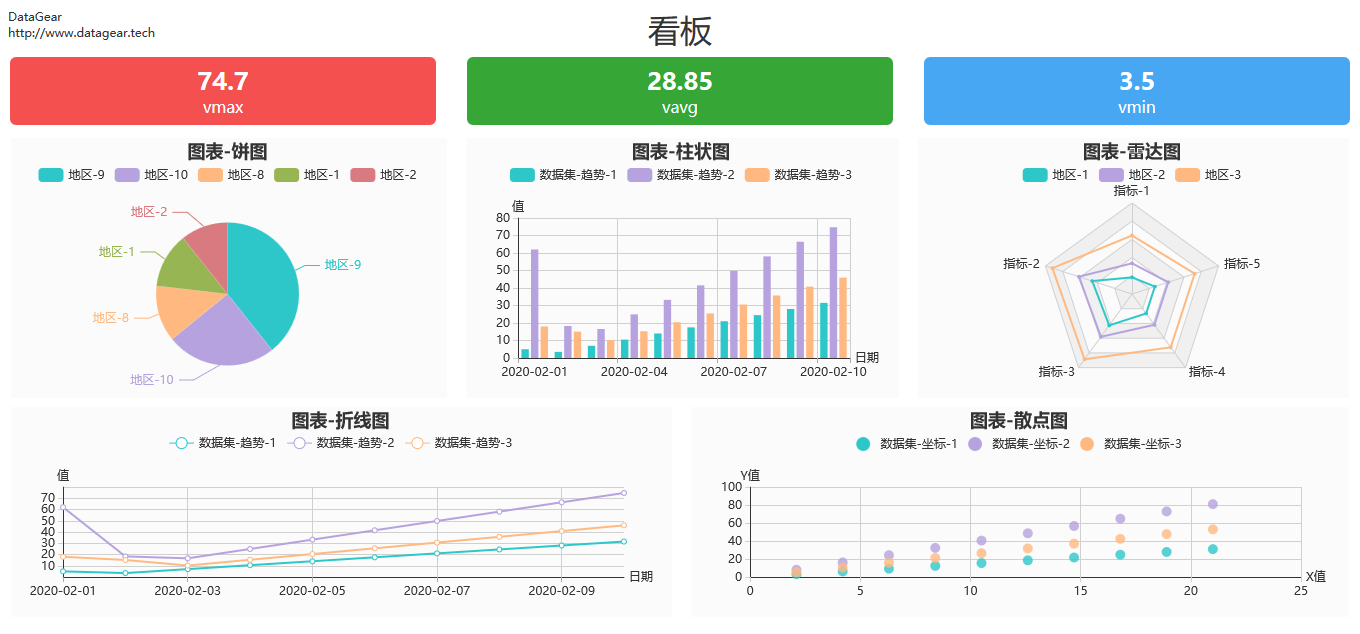
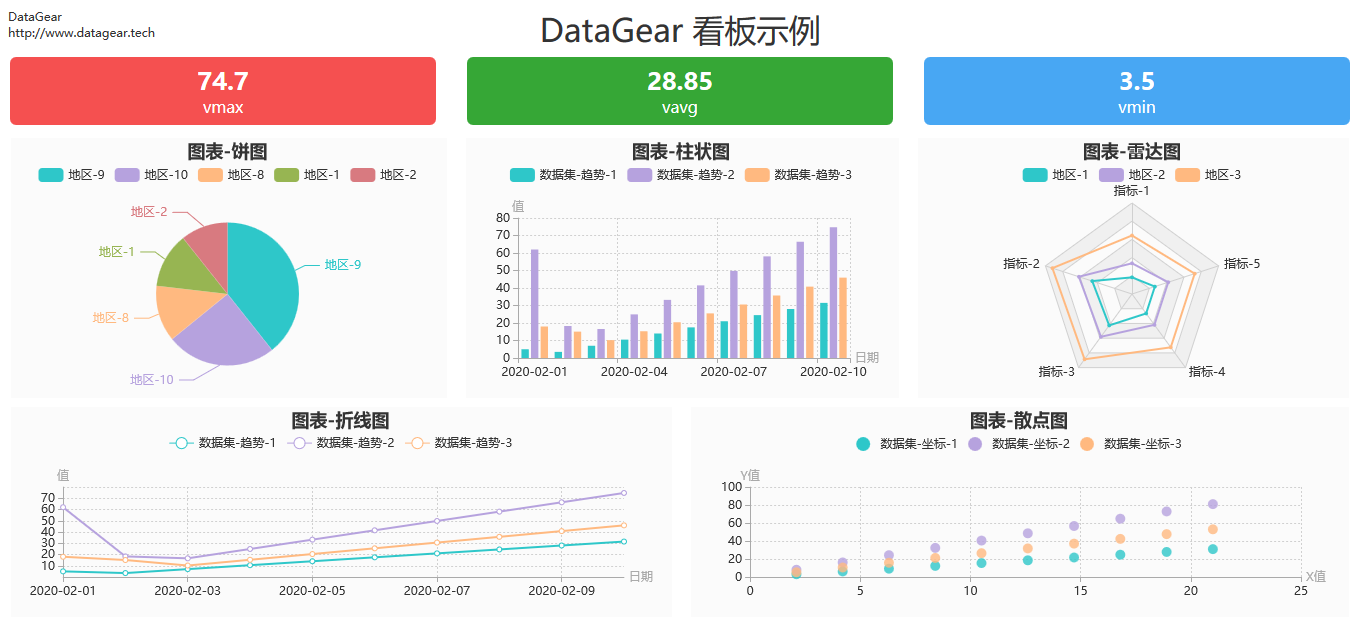
补充看板界面截图和示例看板模板

diff --git a/README.md b/README.md
@@ -39,7 +39,7 @@ SQL工作台
 
 ![界面图片](screenshot/6-dashboard.png)
 
-![界面图片](screenshot/6-dashboard-dark.png)
+![界面图片](screenshot/6-dashboard-darkblue.png)
 
 ## 依赖
 
